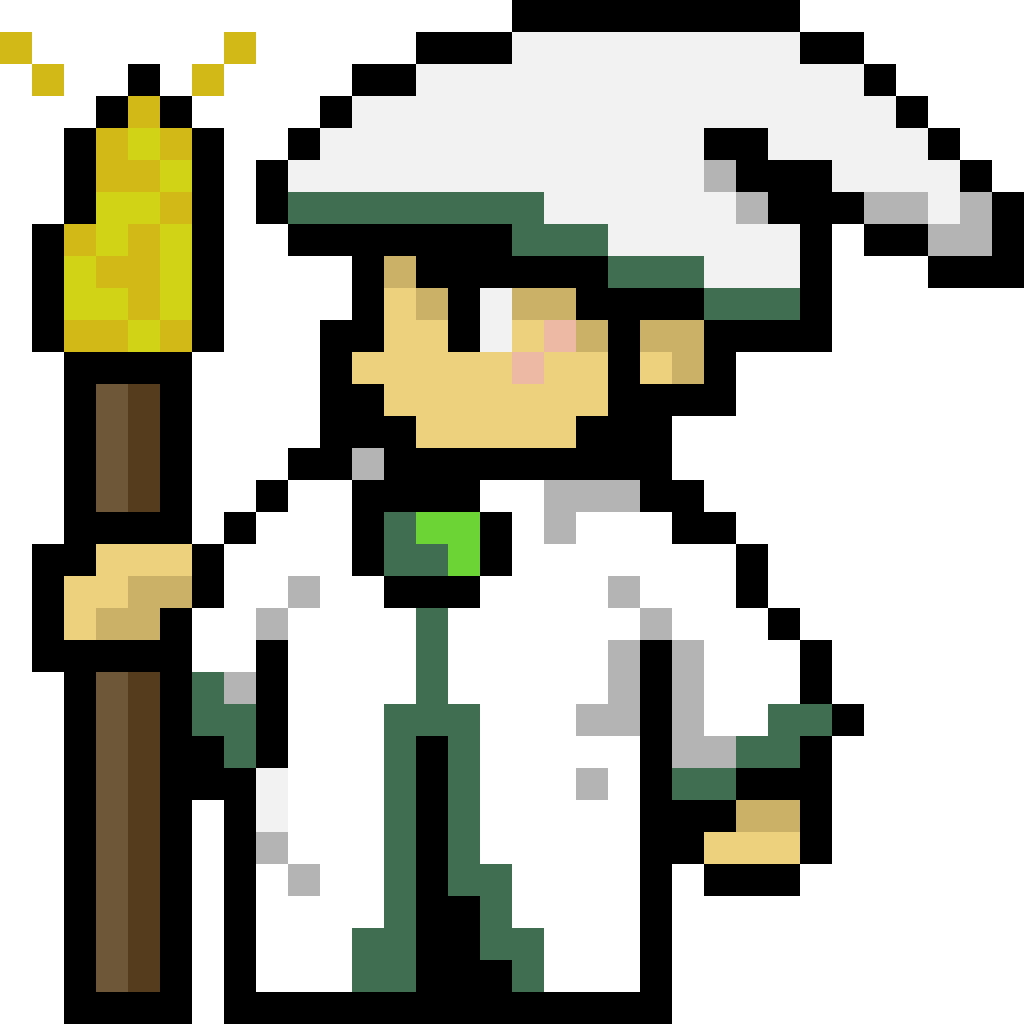
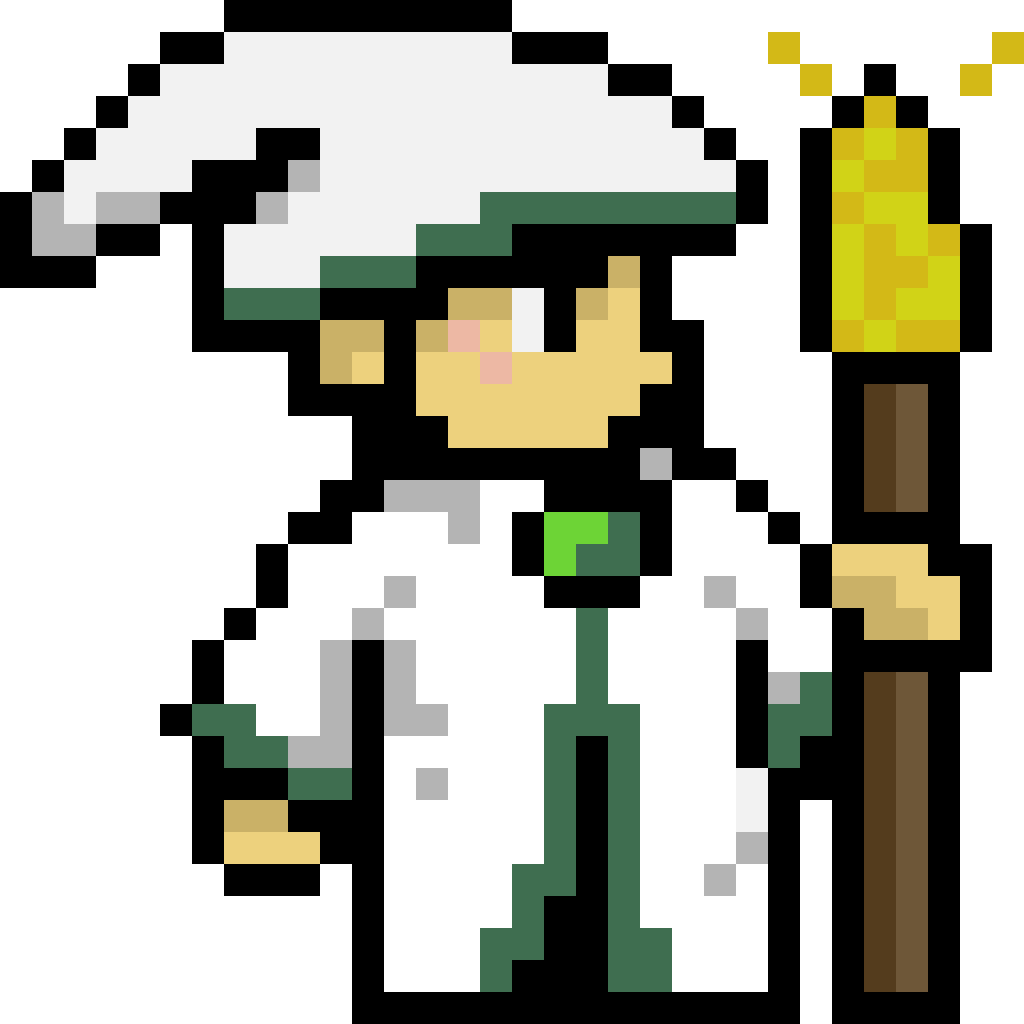
Ajout officiel du sprite
J'ajoute officiellement le gestionnaire de sprites ainsi que
le premier sprite d'Alana.

diff --git a/RPGPD_La_Solution/RPGPD_Le_Jeu/Program.cs b/RPGPD_La_Solution/RPGPD_Le_Jeu/Program.cs
@@ -89,9 +89,11 @@ namespace RPGPD_Le_Jeu
         private int _playerLevel;
         private int _battlesWon;
         private int _potions;
-        private TaskCompletionSource<int>? _inputSignal;
         private int _lastActionSelected = 0; // 1=Atk, 2=Block, 3=Spell, 4=Item (GNIAAAAA)
 
+        // Sprites d'Alana
+        private Image? _whiteMageSprite;
+       
         // Données de l'Ennemi
         private string _enemyName = "Goblin";
         private int _enemyHP;
@@ -172,6 +174,23 @@ namespace RPGPD_Le_Jeu
         public GameForm()
         {
             SetupWindow();
+    
+            try 
+            {
+                // Je check yé où le .exe
+                string exeFolder = AppDomain.CurrentDomain.BaseDirectory;
+        
+                // Je fourre les sprites à l'intérieur du .exe
+                string imagePath = Path.Combine(exeFolder, "white_mage.png");
+        
+                _whiteMageSprite = Image.FromFile(imagePath);
+            }
+            catch 
+            {
+                // Anti-crash pour pas que ton ordi explose si y trouve pas le sprite
+                _whiteMageSprite = null; 
+            }
+
             InitializeComponents();
             InitializeAnimation();
             ShowMainMenu();
@@ -832,6 +851,27 @@ namespace RPGPD_Le_Jeu
             float x = 200 + _playerAnimOffset;
             float y = h / 2 + breathe;
 
+             // Dessine le nouveau sprite White Mage
+            if (_currentClass == PlayerClass.WhiteMage && _whiteMageSprite != null)
+            {
+              // Sauvegarde les settings actuels
+              var oldMode = g.InterpolationMode;
+              var oldPixelMode = g.PixelOffsetMode;
+
+              // Enlève les bordures floues
+              g.InterpolationMode = InterpolationMode.NearestNeighbor;
+              g.PixelOffsetMode = PixelOffsetMode.Half;
+
+              // Dessine le sprite en 100x100px
+              // J'ajuste le fat Y (-50) pour le mettre à la bonne place
+              g.DrawImage(_whiteMageSprite, x, y - 50, 100, 100);
+
+              // Même settings et retour à la norme
+              g.InterpolationMode = oldMode;
+              g.PixelOffsetMode = oldPixelMode;
+              return;
+            }
+
             using (SolidBrush b = new SolidBrush(Color.SteelBlue))
                 g.FillEllipse(b, x, y, 80, 80);
 
@@ -847,10 +887,6 @@ namespace RPGPD_Le_Jeu
             {
                 PointF[] hat = { new PointF(x + 10, y - 30), new PointF(x + 70, y - 30), new PointF(x + 40, y - 80) };
                 g.FillPolygon(Brushes.Purple, hat);
-            }
-            else // Mage Blanc
-            {
-                using (Pen p = new Pen(Color.Gold, 3)) g.DrawEllipse(p, x + 15, y - 50, 50, 10);
             }
 
             // Clignement des yeux
@@ -1306,7 +1342,7 @@ namespace RPGPD_Le_Jeu
         //
         //
 
-        private void BattleParThomas(int difficulty, int playerClass, int choixDeLennemi, int nbPlayerPotion) // 1 potions qui full life
+        private void BattleParThomas(int difficulty, int playerClass, int choixDeLennemi, int nbPlayerPotion) // 1 potion qui full life
         {
             Mobs mob = new Mobs(difficulty);
             Player player = new Player(playerClass);
